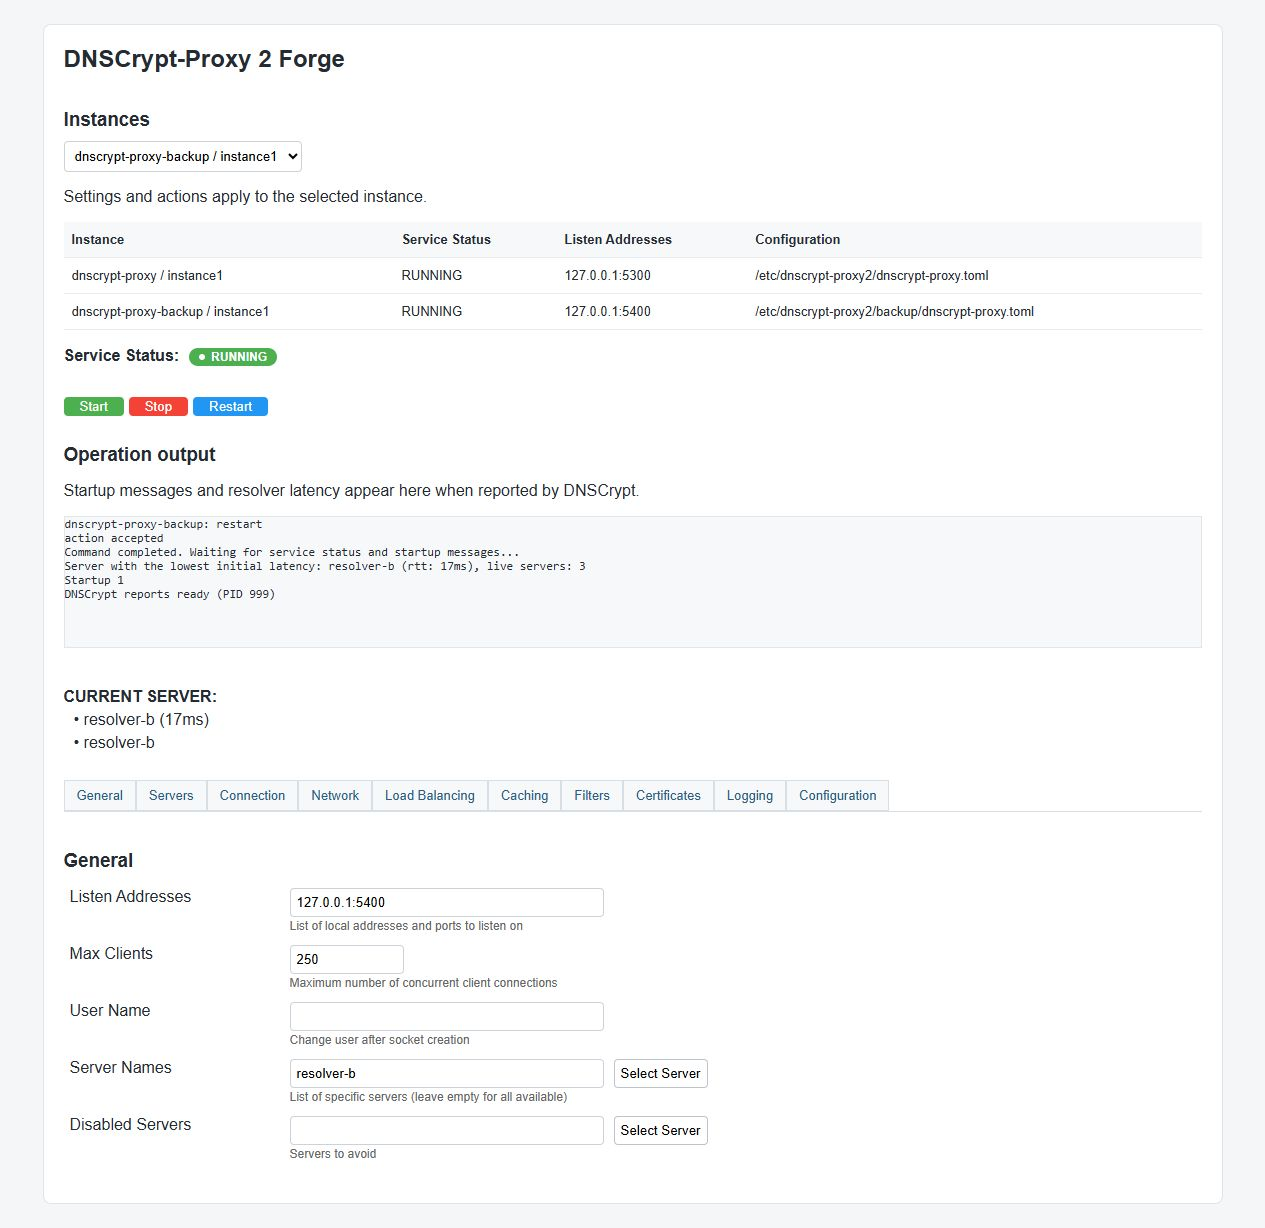
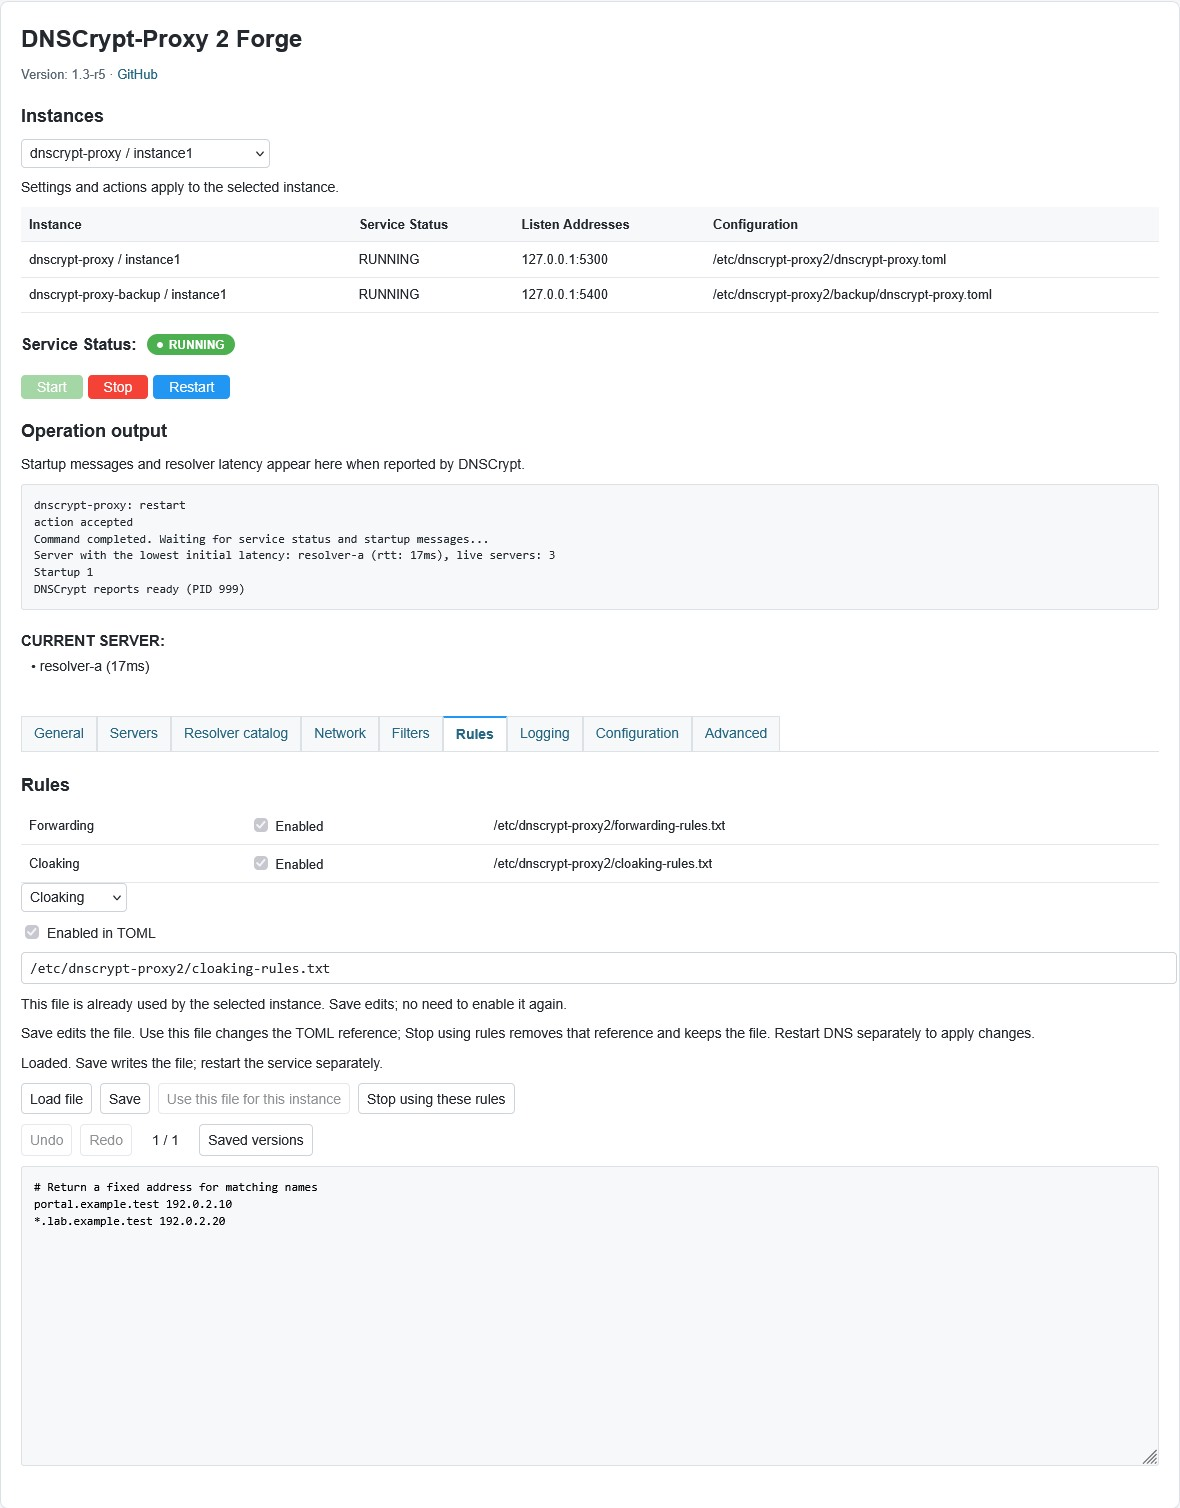
Updated interface screenshot

diff --git a/README.ru.md b/README.ru.md
@@ -8,7 +8,7 @@
 
 Текущая версия: **1.3-r5**. Работа проверена на **OpenWrt 24.10.1**, **GL.iNet GL-MT6000**, mediatek/filogic, aarch64_cortex-a53. Также проверены установка и корректная работа предыдущего IPK **0.1.3-r1** на **OpenWrt 23.05.5**. Для **OpenWrt 25.12.5** доступна отдельная сборка APK с проверенным содержимым; проверка работы на роутере с этой версией ещё не выполнена.
 
-![Обзор инстансов и вывод операции](docs/images/overview.jpg)
+![Обзор инстансов, вывод операции и редактор файлов правил](docs/images/overview.jpg)
 
 *Пример интерфейса с тестовыми инстансами и синтетическим выводом запуска.*
 

diff --git a/README.md b/README.md
@@ -8,7 +8,7 @@ Based on [ewgen198409/luci-app-dnscrypt-proxy2](https://github.com/ewgen198409/l
 
 Current version: **1.3-r5**. Tested on **OpenWrt 24.10.1**, **GL.iNet GL-MT6000**, mediatek/filogic, aarch64_cortex-a53. Installation and correct operation of the earlier **0.1.3-r1** IPK on **OpenWrt 23.05.5** have also been verified. A separate **APK build for OpenWrt 25.12.5** is available; its package contents are verified, but router runtime testing is pending.
 
-![Instance overview and service operation output](docs/images/overview.jpg)
+![Instance overview, service operation output and rule-file editor](docs/images/overview.jpg)
 
 *Interface preview with example instances and synthetic startup output.*
 
